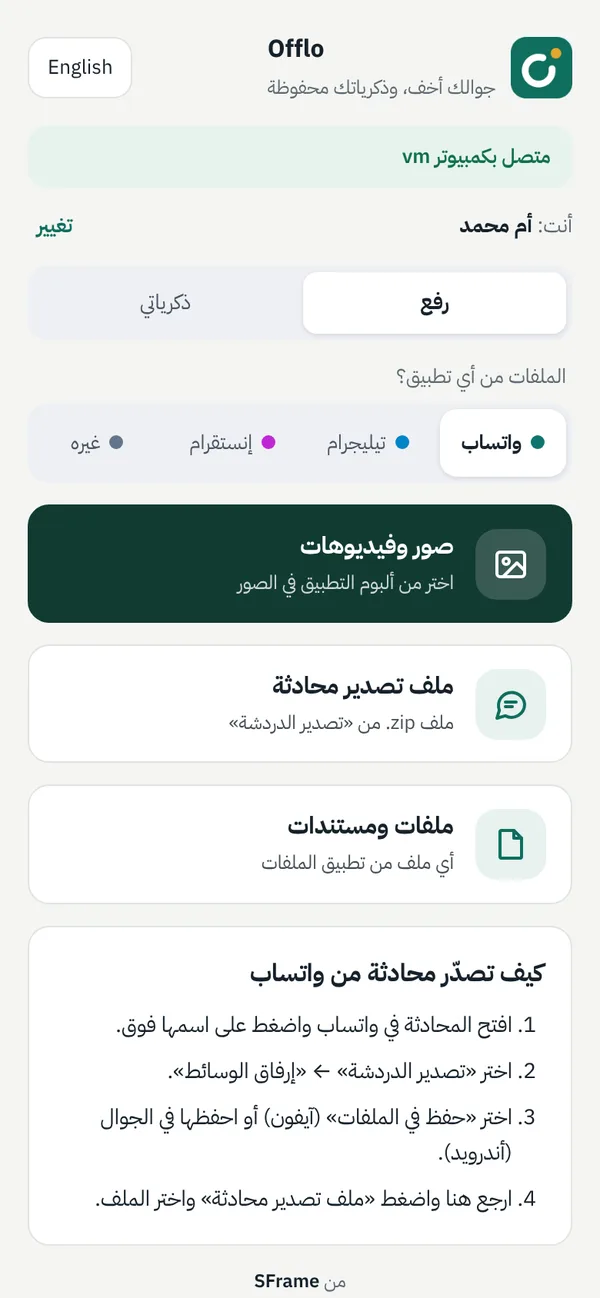
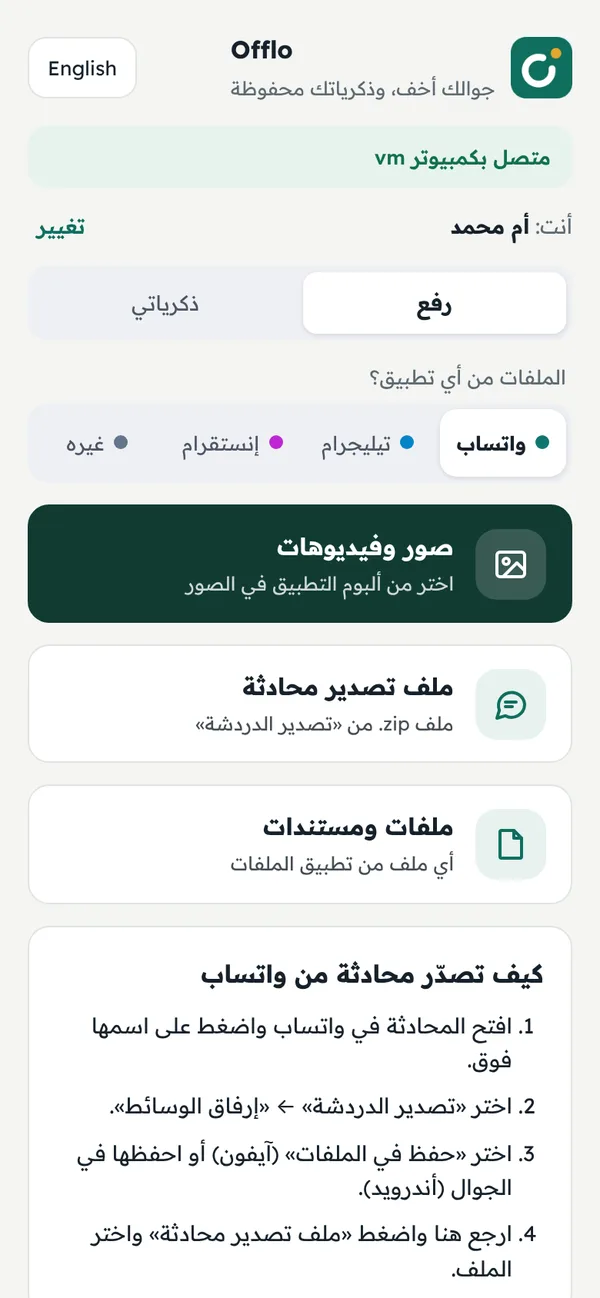
Readex Pro, fixed header button contrast and stretched screenshots, new screenshots
Claude-Session: https://claude.ai/code/session_01QmwVvvaft36KLAy63NMj4Q

diff --git a/index.html b/index.html
@@ -26,7 +26,7 @@ nav{position:sticky;top:0;z-index:10;background:rgba(255,255,255,.92);backdrop-f
 nav .wrap{display:flex;align-items:center;gap:20px;height:66px}
 .brand{display:flex;align-items:center;gap:10px;text-decoration:none;color:var(--ink)}.brand img{width:34px;height:34px;border-radius:9px}.brand b{font-size:16px}
 .links{display:flex;align-items:center;gap:22px;margin-inline-start:auto}
-.links a{color:var(--ink2);text-decoration:none;font-size:15px}.links a:hover{color:var(--ink)}
+.links a{color:var(--ink2);text-decoration:none;font-size:15px}.links a:hover{color:var(--ink)}.links a.btn,.links a.btn:hover{color:#fff}
 .langb{height:38px;padding:0 12px;border:1px solid var(--line);border-radius:10px;background:#fff;font:inherit;font-size:14px;cursor:pointer;color:var(--ink)}
 .btn{display:inline-flex;align-items:center;justify-content:center;gap:10px;height:50px;padding:0 22px;border-radius:12px;background:var(--deep);color:#fff;text-decoration:none;font-weight:600;font-size:16px;border:0;cursor:pointer}
 .btn:hover{background:#0B2A24}.btn.small{height:40px;padding:0 16px;font-size:14.5px}
@@ -38,7 +38,7 @@ html[lang=en] .hero h1{max-width:14ch;letter-spacing:-.02em}
 .cta{display:flex;gap:12px;flex-wrap:wrap;align-items:center}
 .req{color:var(--muted);font-size:14px;margin-top:14px}
 .stage{position:relative;margin-top:56px;padding-bottom:40px}
-.stage .desk{width:100%;border-radius:14px;border:1px solid var(--line);display:block;box-shadow:0 30px 60px -30px rgba(18,59,51,.35)}
+.stage .desk{width:100%;height:auto;border-radius:14px;border:1px solid var(--line);display:block;box-shadow:0 30px 60px -30px rgba(18,59,51,.35)}
 .stage .phone{position:absolute;bottom:0;inset-inline-start:-12px;width:min(230px,26%);border-radius:28px;border:7px solid var(--ink);background:var(--ink)}
 section{padding:96px 0}
 .sec-h{max-width:640px;margin-bottom:44px}
@@ -50,7 +50,7 @@ section{padding:96px 0}
 .step h3{margin:0 0 6px;font-size:20px}.step p{margin:0;color:var(--ink2)}
 .row{display:grid;grid-template-columns:minmax(0,5fr) minmax(0,7fr);gap:56px;align-items:center;padding:56px 0;border-top:1px solid var(--line)}
 .row:nth-child(even) .txt{order:2}
-.row img{width:100%;border-radius:12px;border:1px solid var(--line);display:block}
+.row img{width:100%;height:auto;border-radius:12px;border:1px solid var(--line);display:block}
 .row ul{list-style:none;padding:0;margin:22px 0 0;display:flex;flex-direction:column;gap:14px}
 .row li{display:grid;grid-template-columns:22px 1fr;gap:12px;color:var(--ink2)}
 .row li b{color:var(--ink);display:block;font-weight:600}
@@ -151,7 +151,7 @@ footer .wrap{display:flex;flex-direction:column;gap:8px}
     <li><svg width="18" height="18" viewBox="0 0 24 24" fill="none" stroke="currentColor" stroke-width="2.2" stroke-linecap="round" stroke-linejoin="round" aria-hidden="true"><path d="M20 6 9 17l-5-5"/></svg><span><b><span data-l="ar">اسأل ذكرياتك</span><span data-l="en">Ask your memories</span></b><span data-l="ar">«متى موعد الطبيب؟» والجواب من رسائلك مع مصدره.</span><span data-l="en">“When is the doctor’s appointment?” answered from your messages, with the source.</span></span></li>
     <li><svg width="18" height="18" viewBox="0 0 24 24" fill="none" stroke="currentColor" stroke-width="2.2" stroke-linecap="round" stroke-linejoin="round" aria-hidden="true"><path d="M20 6 9 17l-5-5"/></svg><span><b><span data-l="ar">المواعيد والمصروفات</span><span data-l="en">Dates and expenses</span></b><span data-l="ar">«موعدنا الخميس» يصير تذكير، والفواتير تصير مصروفات شهرية تصدّرها لـ Excel.</span><span data-l="en">“See you Thursday” becomes a reminder, and bills become monthly expenses you can export to Excel.</span></span></li>
    </ul></div>
-  <img src="assets/settings-ar.webp" data-l="ar" alt="الإعدادات: تشغيل وإيقاف الميزات" loading="lazy" width="1600" height="1022"><img src="assets/settings-en.webp" data-l="en" alt="Settings: turning features on and off" loading="lazy" width="1600" height="1022">
+  <img src="assets/search-ar.webp" data-l="ar" alt="صفحة البحث في الأرشيف" loading="lazy" width="1600" height="1022"><img src="assets/search-en.webp" data-l="en" alt="Searching the archive" loading="lazy" width="1600" height="1022">
  </div>
 </div></section>
 
@@ -197,7 +197,6 @@ footer .wrap{display:flex;flex-direction:column;gap:8px}
  <span><span data-l="ar">منتج من</span><span data-l="en">A product by</span> <a href="https://saudiframe.com" style="color:var(--ink);font-weight:600;text-decoration:none">SFrame</a>، © 2026</span>
  <span><span data-l="ar">WhatsApp وMessenger وInstagram علامات تجارية لشركة Meta، وTelegram وiMessage وSnapchat علامات تجارية لمالكيها. هذا البرنامج مستقل وغير تابع لأي منهم.</span><span data-l="en">WhatsApp, Messenger and Instagram are trademarks of Meta; Telegram, iMessage and Snapchat are trademarks of their owners. This app is independent and not affiliated with any of them.</span></span>
  <span><a href="privacy.html"><span data-l="ar">سياسة الخصوصية</span><span data-l="en">Privacy policy</span></a></span>
- <span><span data-l="ar">الخط: Readex Pro برخصة SIL Open Font License.</span><span data-l="en">Typeface: Readex Pro, SIL Open Font License.</span></span>
 </div></footer>
 
 <script>
